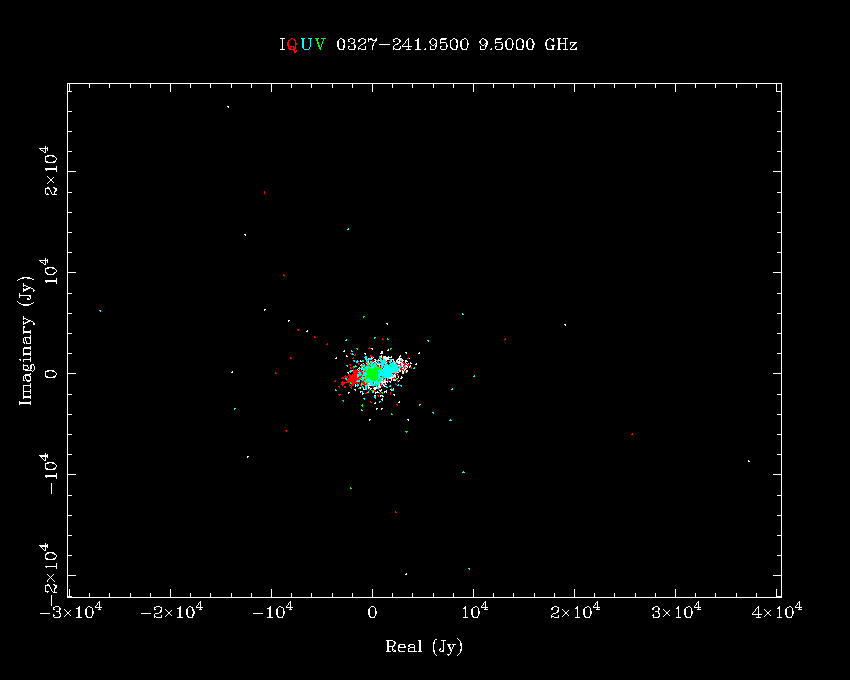
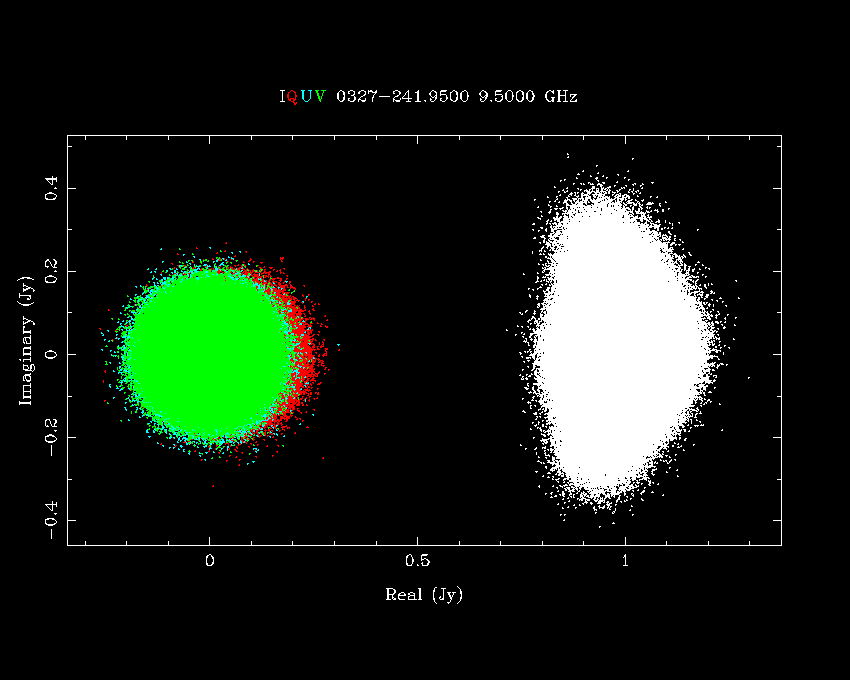
Added extra flaggint o bad day
Add some extra flagging to the IF that failed and reran

diff --git a/Data/2018-05-31/reduction_9_model.py b/Data/2018-05-31/reduction_9_model.py
@@ -44,6 +44,16 @@ uv = f'uv/data{IFSEL}.uv'
 uvsplit = mu.mirstr(f"uvsplit vis={uv} options=mosaic").run()
 print(uvsplit)
 
+# Automated flagging, extra flagging. Without mfcal/gpcal didnt seem to converge
+pgflag = mu.mirstr(f"pgflag vis={secondary} command='<b' stokes=i,q,u,v flagpar=8,5,5,3,6,3 options=nodisp").run()
+print(pgflag)
+
+pgflag = mu.mirstr(f"pgflag vis={secondary} command='<b' stokes=i,v,q,u flagpar=8,2,2,3,6,3  options=nodisp").run()
+print(pgflag)
+
+pgflag = mu.mirstr(f"pgflag vis={secondary} command='<b' stokes=i,v,u,q flagpar=8,2,2,3,6,3  options=nodisp").run()
+print(pgflag)
+
 sec_model = mu.model_secondary()
 mfflux = mu.mfcal_flux(sec_model, ifcal=2)
 
